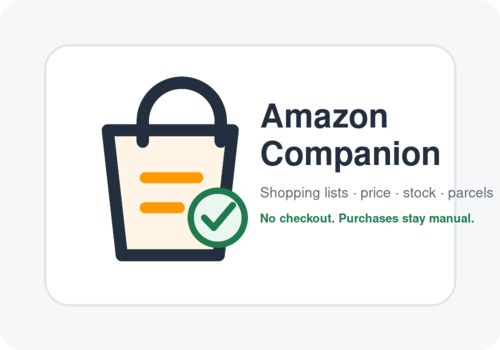
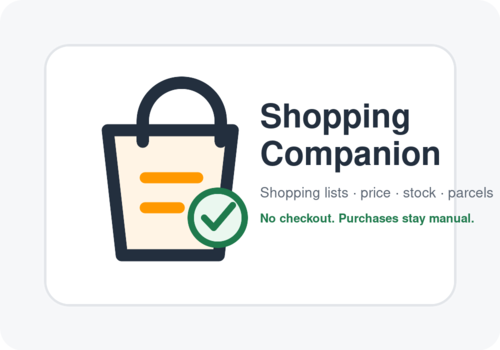
Rename app to Shopping Companion and add manual product refresh

Changed region(s): [[0.51, 0.2857, 0.84, 0.4]]

diff --git a/settings/index.html b/settings/index.html
@@ -6,7 +6,7 @@
 </head>
 <body>
   <header class="homey-header">
-    <h1 class="homey-title">Amazon Companion</h1>
+    <h1 class="homey-title">Shopping Companion</h1>
     <p class="homey-subtitle">Shopping lists, product monitoring and parcel events — handled by your own Homey.</p>
   </header>
 
@@ -93,7 +93,7 @@
     <p id="apiStatus"></p>
     <p>
       <strong>Important:</strong> Credential Secret is an API credential, not your Amazon shopping password.
-      Amazon Companion never stores your retail Amazon password or browser session.
+      Shopping Companion never stores your retail Amazon password or browser session.
     </p>
   </fieldset>
 
@@ -112,7 +112,7 @@
     <button id="save" class="homey-button-primary-full" type="button">Save settings</button>
   </div>
 
-  <p><strong>Security:</strong> Amazon Companion has no order-placement, cart, checkout,
+  <p><strong>Security:</strong> Shopping Companion has no order-placement, cart, checkout,
     payment or address capability. Purchases must always be completed manually on Amazon.</p>
 
   <script>
@@ -143,7 +143,7 @@
         credentialVersion.value = creatorsConfig.credentialVersion || '3.2';
         monitorInterval.value = String(creatorsConfig.monitorIntervalMinutes || 60);
 
-        Homey.get('amazon_companion_state', (stateError, state) => {
+        Homey.get('shopping_companion_state', (stateError, state) => {
           if (!stateError && state && state.preferences) {
             market.value = state.preferences.defaultMarketplace || 'SE';
             removeDelivered.checked = state.preferences.autoRemoveOnDelivered !== false;
@@ -156,7 +156,7 @@
 
       market.addEventListener('change', syncPartnerTag);
       function saveAll(callback) {
-        Homey.get('amazon_companion_state', (error, state) => {
+        Homey.get('shopping_companion_state', (error, state) => {
           if (error || !state) return callback(error || new Error('Could not load settings.'));
           state.preferences = state.preferences || {};
           state.preferences.defaultMarketplace = market.value;
@@ -171,7 +171,7 @@
           creatorsConfig.partnerTags = creatorsConfig.partnerTags || {};
           creatorsConfig.partnerTags[market.value] = partnerTag.value.trim();
 
-          Homey.set('amazon_companion_state', state, stateError => {
+          Homey.set('shopping_companion_state', state, stateError => {
             if (stateError) return callback(stateError);
             Homey.set('amazon_creators_config', creatorsConfig, configError => {
               if (configError) return callback(configError);

diff --git a/website/index.html b/website/index.html
@@ -3,19 +3,19 @@
 <head>
   <meta charset="utf-8">
   <meta name="viewport" content="width=device-width,initial-scale=1">
-  <meta name="description" content="Amazon Companion for Homey — private shopping lists, price monitoring and parcel events. Never places orders.">
-  <title>Amazon Companion for Homey</title>
+  <meta name="description" content="Shopping Companion for Homey — private shopping lists, price monitoring and parcel events. Never places orders.">
+  <title>Shopping Companion for Homey</title>
   <link rel="stylesheet" href="style.css">
 </head>
 <body>
   <main>
     <section class="hero">
       <div class="badge">Homey Pro app · Open source</div>
-      <h1>Amazon Companion</h1>
+      <h1>Shopping Companion</h1>
       <p class="lead">Shopping lists, price & stock monitoring and parcel events — stored on your own Homey.</p>
       <div class="security">🔒 No checkout. No payments. No Amazon password. No order placement.</div>
       <div class="actions">
-        <a class="primary" href="https://github.com/CuddleFish34/homey-amazon-companion">View on GitHub</a>
+        <a class="primary" href="https://github.com/CuddleFish34/homey-shopping-companion">View on GitHub</a>
         <a href="#features">See features</a>
       </div>
     </section>
@@ -54,12 +54,12 @@
 
     <section class="warning">
       <h2>Purchases always stay manual</h2>
-      <p>Amazon Companion intentionally has no API for cart management, checkout, payment methods, shipping-address changes or placing an order. When you want to buy something, you open Amazon and complete the purchase yourself.</p>
+      <p>Shopping Companion intentionally has no API for cart management, checkout, payment methods, shipping-address changes or placing an order. When you want to buy something, you open Amazon and complete the purchase yourself.</p>
     </section>
 
     <footer>
       <p>Independent community project by Creson. Not affiliated with or endorsed by Amazon.</p>
-      <p><a href="https://github.com/CuddleFish34/homey-amazon-companion/blob/main/SECURITY.md">Security model</a> · <a href="https://github.com/CuddleFish34/homey-amazon-companion">Source code</a></p>
+      <p><a href="https://github.com/CuddleFish34/homey-shopping-companion/blob/main/SECURITY.md">Security model</a> · <a href="https://github.com/CuddleFish34/homey-shopping-companion">Source code</a></p>
     </footer>
   </main>
 </body>

diff --git a/app.js b/app.js
@@ -7,7 +7,7 @@ const AccountConnectorRegistry = require('./lib/account-connectors/registry');
 const ProductMonitor = require('./lib/monitor');
 const { getMarketplace } = require('./lib/marketplaces');
 
-class AmazonCompanionApp extends Homey.App {
+class ShoppingCompanionApp extends Homey.App {
   async onInit() {
     this.store = new Store(this.homey);
     await this.store.init();
@@ -19,7 +19,7 @@ class AmazonCompanionApp extends Homey.App {
     });
     this._registerFlowCards();
     this.monitor.start();
-    this.log('Amazon Companion initialized in read/list-monitor mode.');
+    this.log('Shopping Companion initialized in read/list-monitor mode.');
   }
 
   _registerFlowCards() {
@@ -57,6 +57,8 @@ class AmazonCompanionApp extends Homey.App {
       .registerRunListener(args => this.updateShipment(args.shipment_id, { status: args.status }));
     this.homey.flow.getActionCard('record_product_observation')
       .registerRunListener(args => this.observeProduct(args.product_id, args));
+    this.homey.flow.getActionCard('check_watched_products')
+      .registerRunListener(() => this.monitor.run());
 
     this.homey.flow.getConditionCard('product_in_stock')
       .registerRunListener(async args => this.store.getProduct(args.product_id).availability === 'in_stock');
@@ -80,7 +82,7 @@ class AmazonCompanionApp extends Homey.App {
   getHealth() {
     return {
       ok: true,
-      app: 'Amazon Companion',
+      app: 'Shopping Companion',
       version: this.manifest.version,
       mode: 'read-list-monitor-only',
       capabilities: CAPABILITIES,
@@ -93,6 +95,10 @@ class AmazonCompanionApp extends Homey.App {
 
   getProviders() {
     return this.providers.list();
+  }
+
+  runMonitor() {
+    return this.monitor.run();
   }
 
   reloadProviders() {
@@ -290,4 +296,4 @@ class AmazonCompanionApp extends Homey.App {
   }
 }
 
-module.exports = AmazonCompanionApp;
+module.exports = ShoppingCompanionApp;

diff --git a/lib/store.js b/lib/store.js
@@ -33,7 +33,7 @@ class Store {
   }
 
   async init() {
-    const saved = this.homey.settings.get('amazon_companion_state');
+    const saved = this.homey.settings.get('shopping_companion_state');
     if (saved && saved.schemaVersion === 2) {
       this.state = saved;
     } else if (saved && saved.schemaVersion === 1) {
@@ -51,7 +51,7 @@ class Store {
   }
 
   async save() {
-    await this.homey.settings.set('amazon_companion_state', this.state);
+    await this.homey.settings.set('shopping_companion_state', this.state);
   }
 
   snapshot() {

diff --git a/lib/monitor.js b/lib/monitor.js
@@ -1,5 +1,7 @@
 const { getMarketplace } = require('./marketplaces');
 
+const sleep = ms => new Promise(resolve => setTimeout(resolve, ms));
+
 class ProductMonitor {
   constructor(app, options = {}) {
     this.app = app;
@@ -62,6 +64,7 @@ class ProductMonitor {
           });
           await this.app.observeProduct(product.id, observation);
           summary.checked += 1;
+          await sleep(1100);
         } catch (error) {
           summary.errors.push({ productId: product.id, message: error.message });
         }

diff --git a/lib/safety.js b/lib/safety.js
@@ -18,7 +18,7 @@ const FORBIDDEN_OPERATION_NAMES = Object.freeze([
 function assertSafeOperation(name) {
   const normalized = String(name || '').toLowerCase();
   if (FORBIDDEN_OPERATION_NAMES.some(word => normalized.includes(word))) {
-    throw new Error('Amazon Companion never performs purchase or checkout operations.');
+    throw new Error('Shopping Companion never performs purchase or checkout operations.');
   }
 }
 

diff --git a/test/smoke.js b/test/smoke.js
@@ -44,7 +44,7 @@ async function main() {
   const accounts = new AccountConnectorRegistry();
   assert.throws(() => accounts.register(new UnsafeConnector()));
 
-  console.log('Amazon Companion smoke tests passed.');
+  console.log('Shopping Companion smoke tests passed.');
 }
 
 main().catch(error => {

diff --git a/README.md b/README.md
@@ -1,8 +1,8 @@
-# Amazon Companion for Homey
+# Shopping Companion for Homey
 
 A Homey Pro app for private shopping lists, Amazon product monitoring and parcel events.
 
-> **Safety by design:** Amazon Companion never places orders, enters checkout,
+> **Safety by design:** Shopping Companion never places orders, enters checkout,
 > modifies payment methods or changes shipping addresses. Purchases are always
 > completed manually by the user on Amazon.
 
@@ -56,7 +56,7 @@ protected MCP / Homey connector
       |
 Athom/Homey API
       |
-Homey Pro — Amazon Companion
+Homey Pro — Shopping Companion
   |       |        |
  lists  products  parcels
       |
@@ -69,7 +69,7 @@ ordering, cart management, checkout, payments or address changes exists.
 ## Amazon account access
 
 Amazon Login currently exposes identity/profile scopes, not a general consumer
-API for wish lists, orders or parcel history. Amazon Companion will therefore
+API for wish lists, orders or parcel history. Shopping Companion will therefore
 never use a captured Amazon browser session as a substitute.
 
 If Amazon later provides an official read-only customer API, it can be added as
@@ -111,7 +111,7 @@ The public Creson website is documentation only.
 
 Public documentation is planned for:
 
-**https://apps.creson.com/AmazonCompanion**
+**https://apps.creson.com/ShoppingCompanion**
 
 The initial static source lives in `website/`.
 

diff --git a/docs-account-access.md b/docs-account-access.md
@@ -1,6 +1,6 @@
 # Amazon account access policy
 
-Amazon Companion is designed to support optional Amazon account connections
+Shopping Companion is designed to support optional Amazon account connections
 only when Amazon provides an official API with sufficiently narrow permissions.
 
 An account connector may be allowed to:
@@ -21,5 +21,5 @@ An account connector must never be allowed to:
 At present, Login with Amazon is not treated as an order/wishlist API. A future
 connector must be implemented only from documented official Amazon capabilities.
 
-If no compliant account API exists for a marketplace, Amazon Companion falls
+If no compliant account API exists for a marketplace, Shopping Companion falls
 back to Homey's own shopping lists plus official/public product-provider data.

diff --git a/SECURITY.md b/SECURITY.md
@@ -1,6 +1,6 @@
 # Security model
 
-Amazon Companion follows a deliberately narrow capability model.
+Shopping Companion follows a deliberately narrow capability model.
 
 ## Never supported
 
